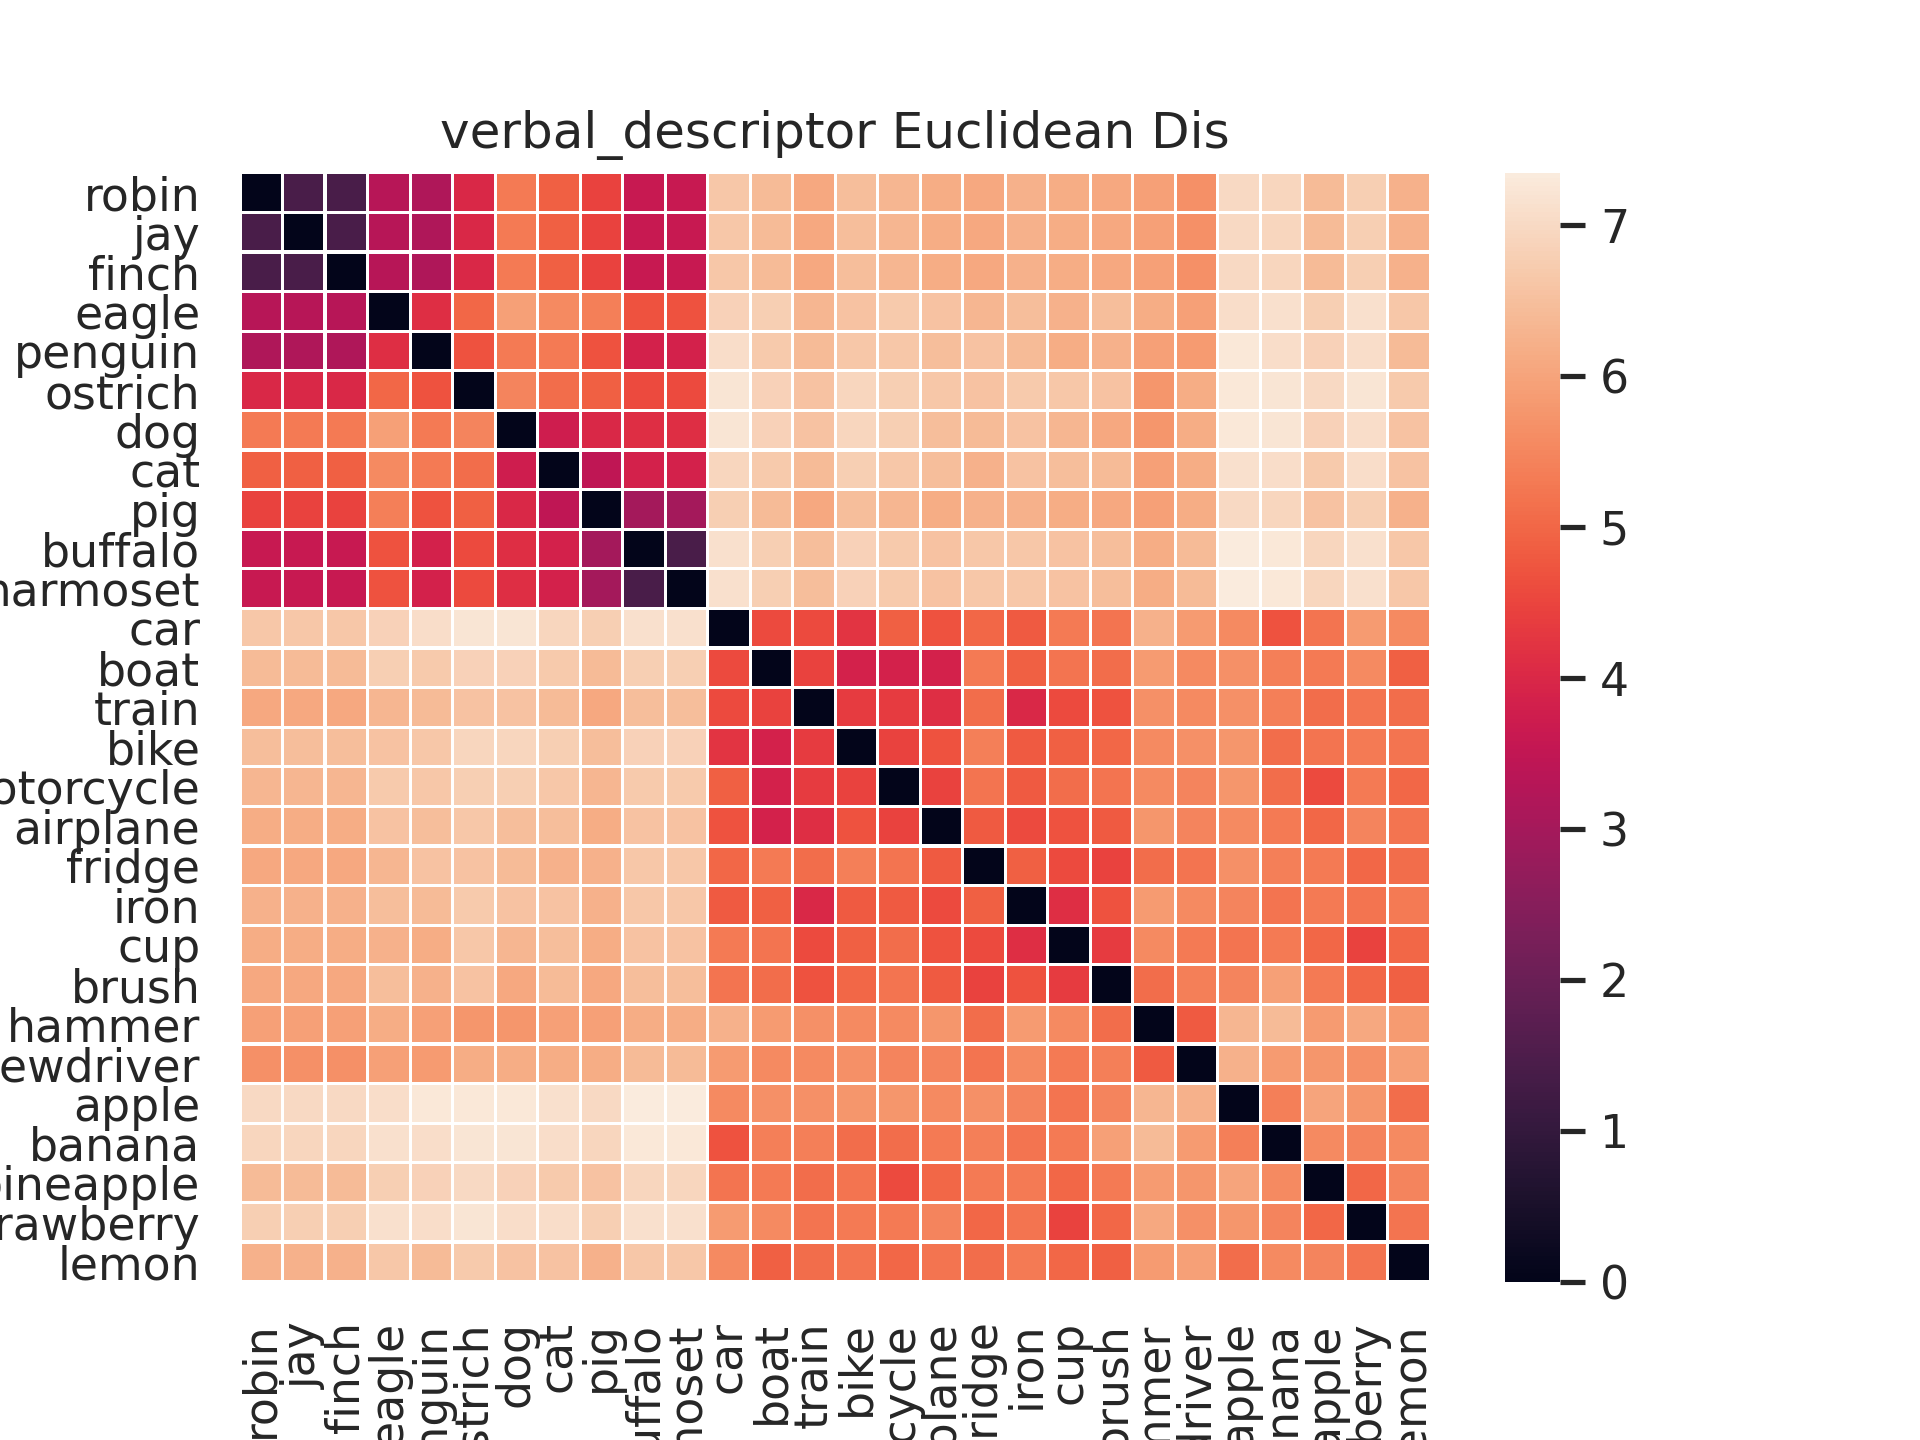
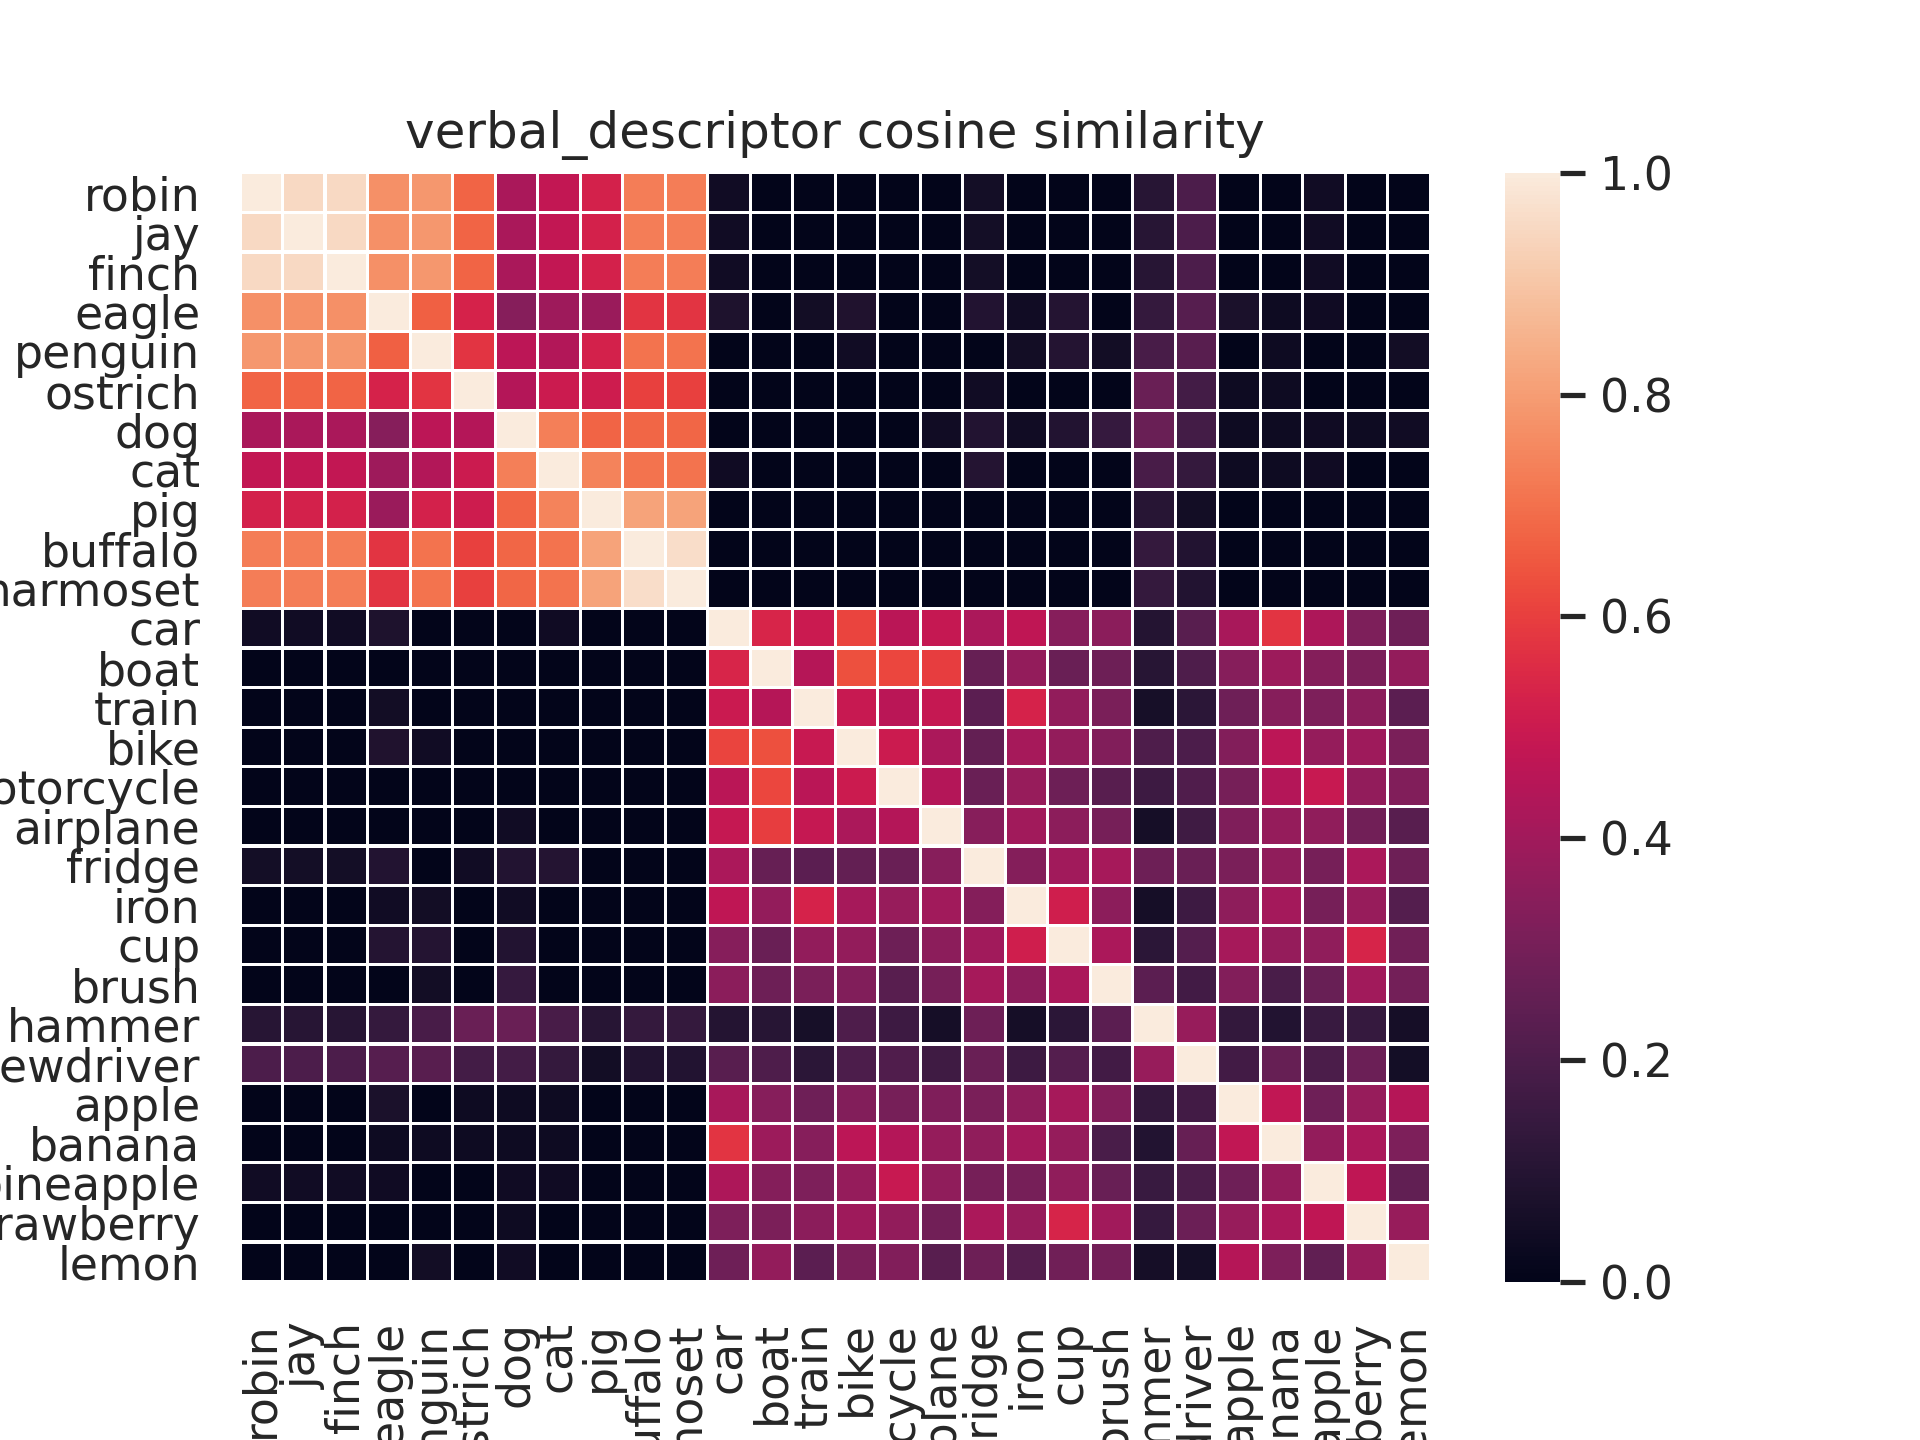
change to cosine similarity

diff --git a/run_exp.py b/run_exp.py
@@ -162,12 +162,15 @@ class RunExp:
             feat1 = feats[i]
             for j in range(N):
                 feat2 = feats[j]
-                dist = np.linalg.norm(feat1 - feat2)                
+                #dist = np.linalg.norm(feat1 - feat2)
+                dist = np.dot(feat1, feat2) / (
+                    np.linalg.norm(feat1) * np.linalg.norm(feat2)
+                )
                 dist_mat[i, j] = dist
-                
+        
         ax = sns.heatmap(dist_mat, linewidths=.5,
                          yticklabels=labels, xticklabels=labels)
-        ax.set_title(f'{which_data} Euclidean Dis')
+        ax.set_title(f'{which_data} cosine similarity')
         plt.xticks(rotation=90)
         plt.savefig(
             f'{FULL_BASE_PATH}figs/{which_data}_dists.png',
@@ -179,7 +182,7 @@ class RunExp:
         classes = []
         all_flatten_images = []
         for class_ in class_all_flatten_ims:
-            classes.append(classes)
+            classes.append(class_)
             all_flatten_images.extend(
                 class_all_flatten_ims[class_]
             )
@@ -212,6 +215,6 @@ if __name__ == '__main__':
     run_exp = RunExp(
         args.which_model, args.embd_path, args.result_folder
     )
-    #run_exp.vis_input_verbal_distance()
+    run_exp.vis_input_verbal_distance()
     run_exp.vis_input_image_distance()
     #run_exp.vis_learned_visual_embds()
